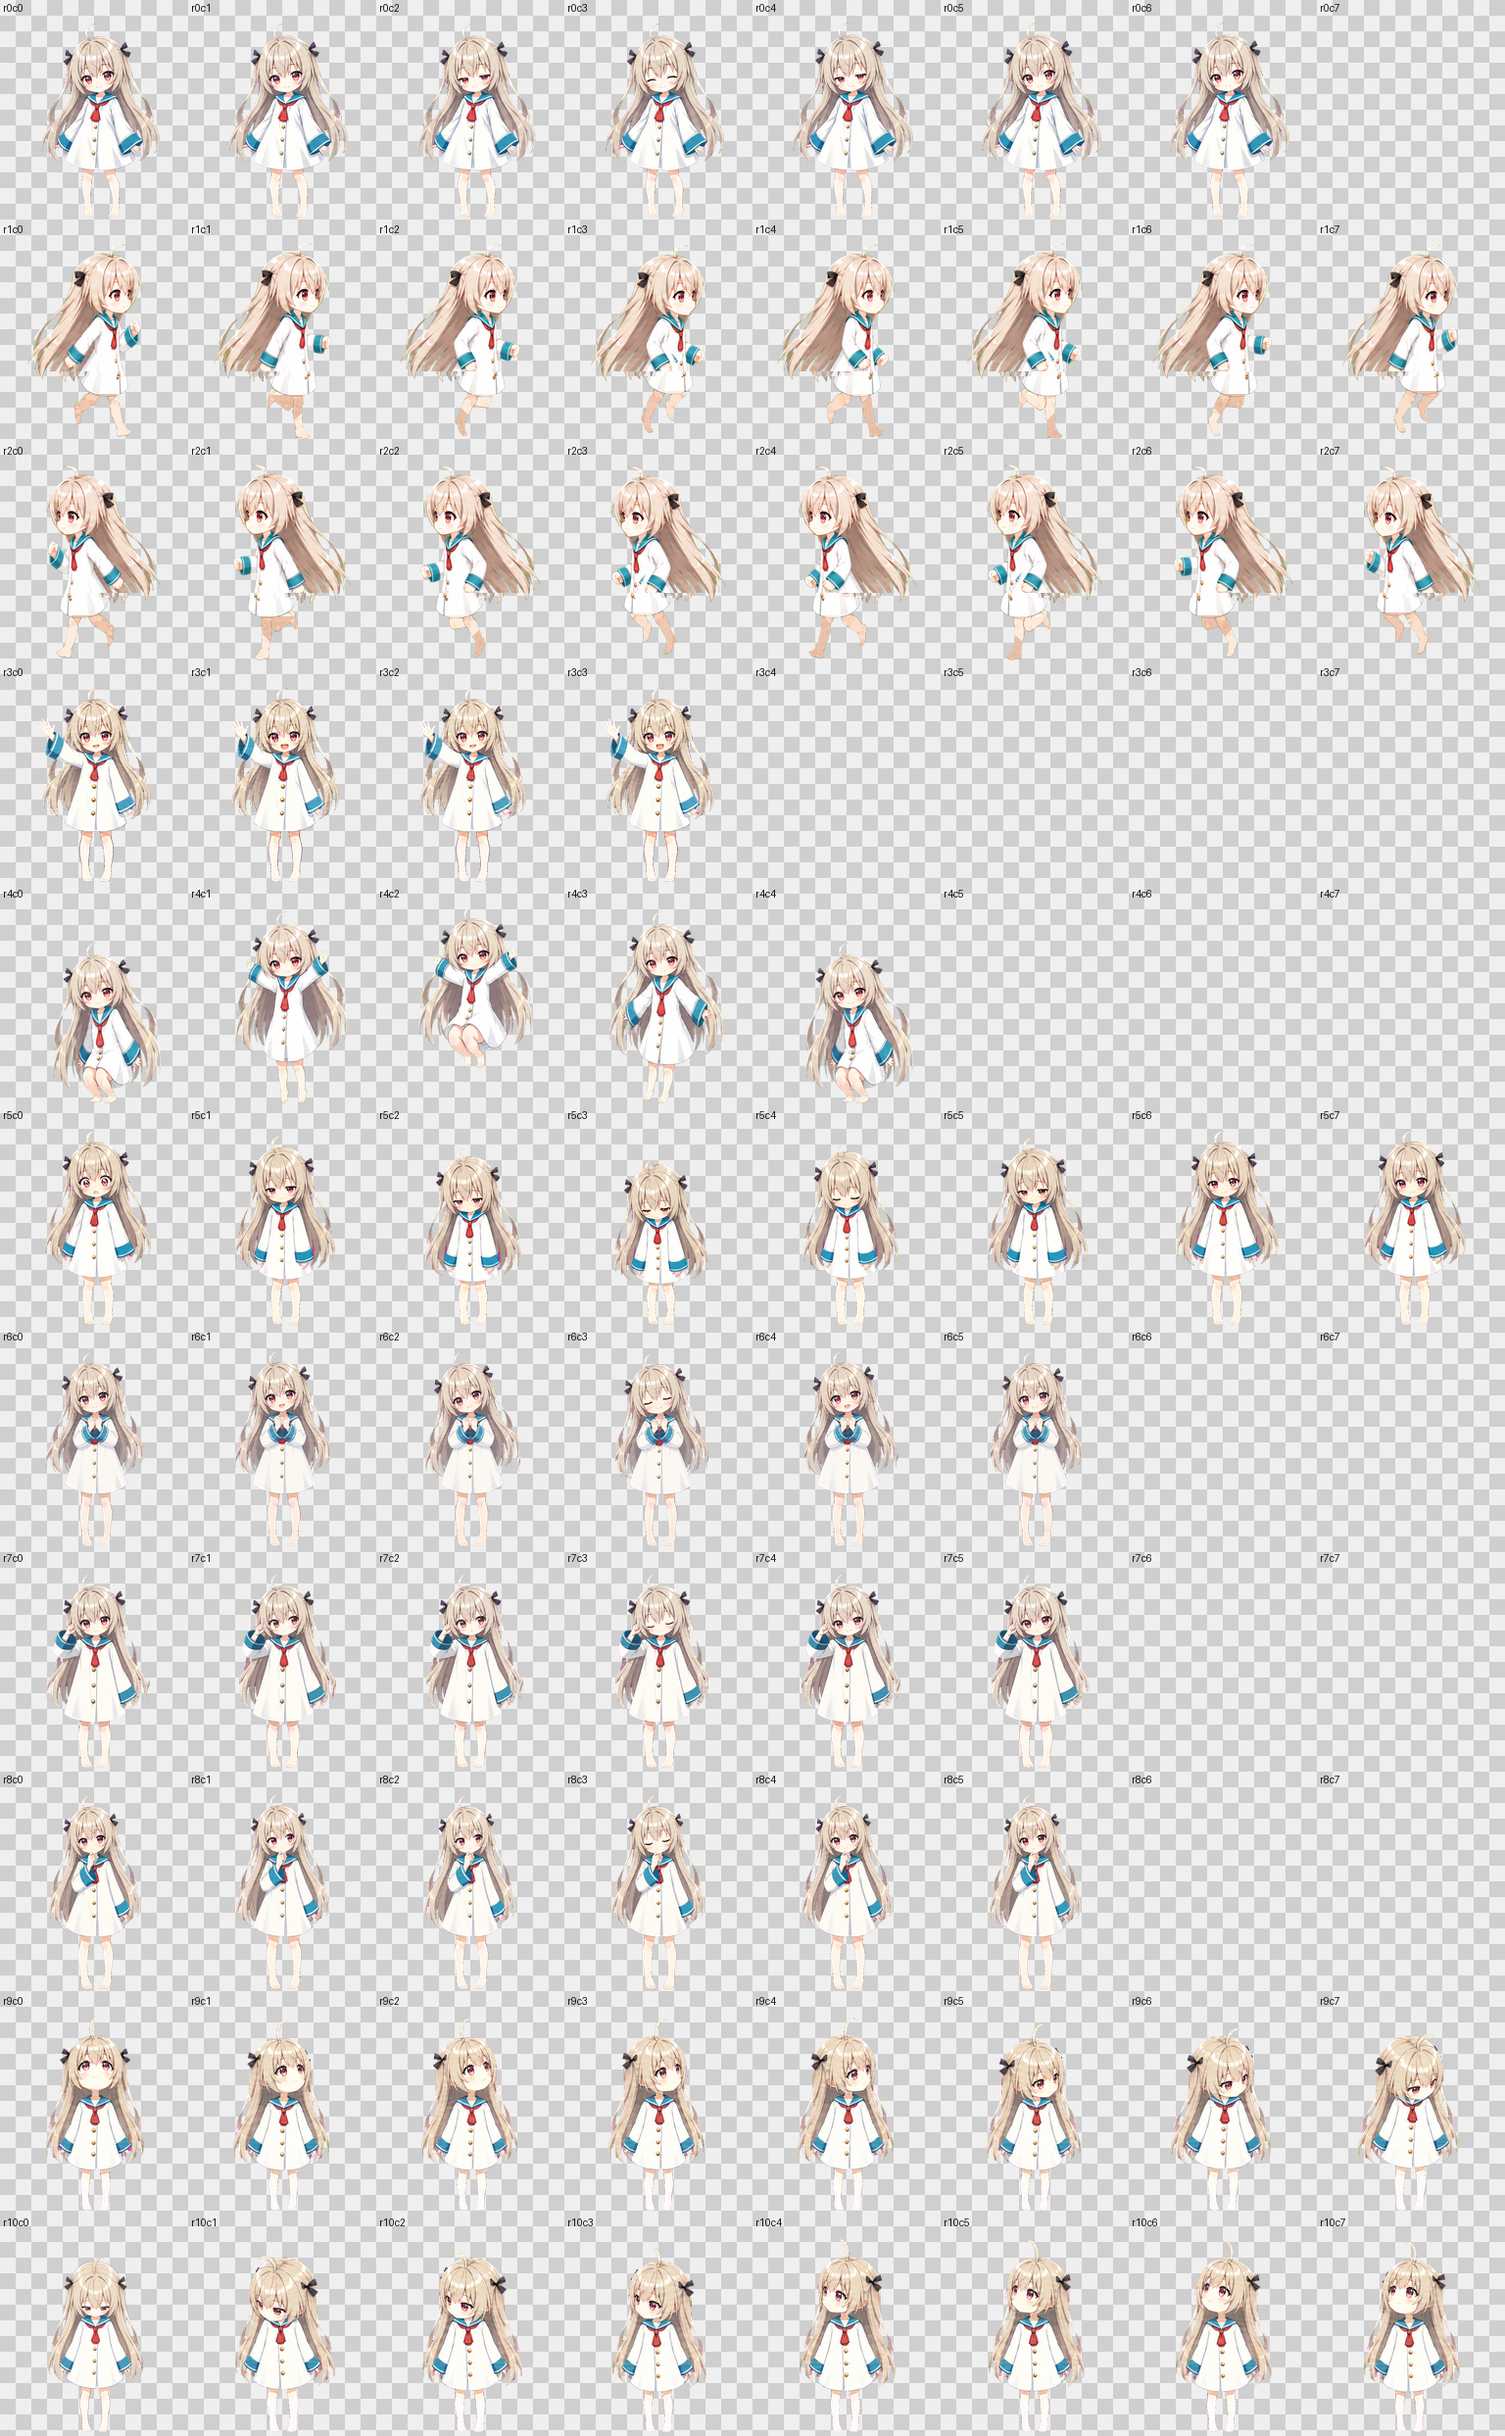
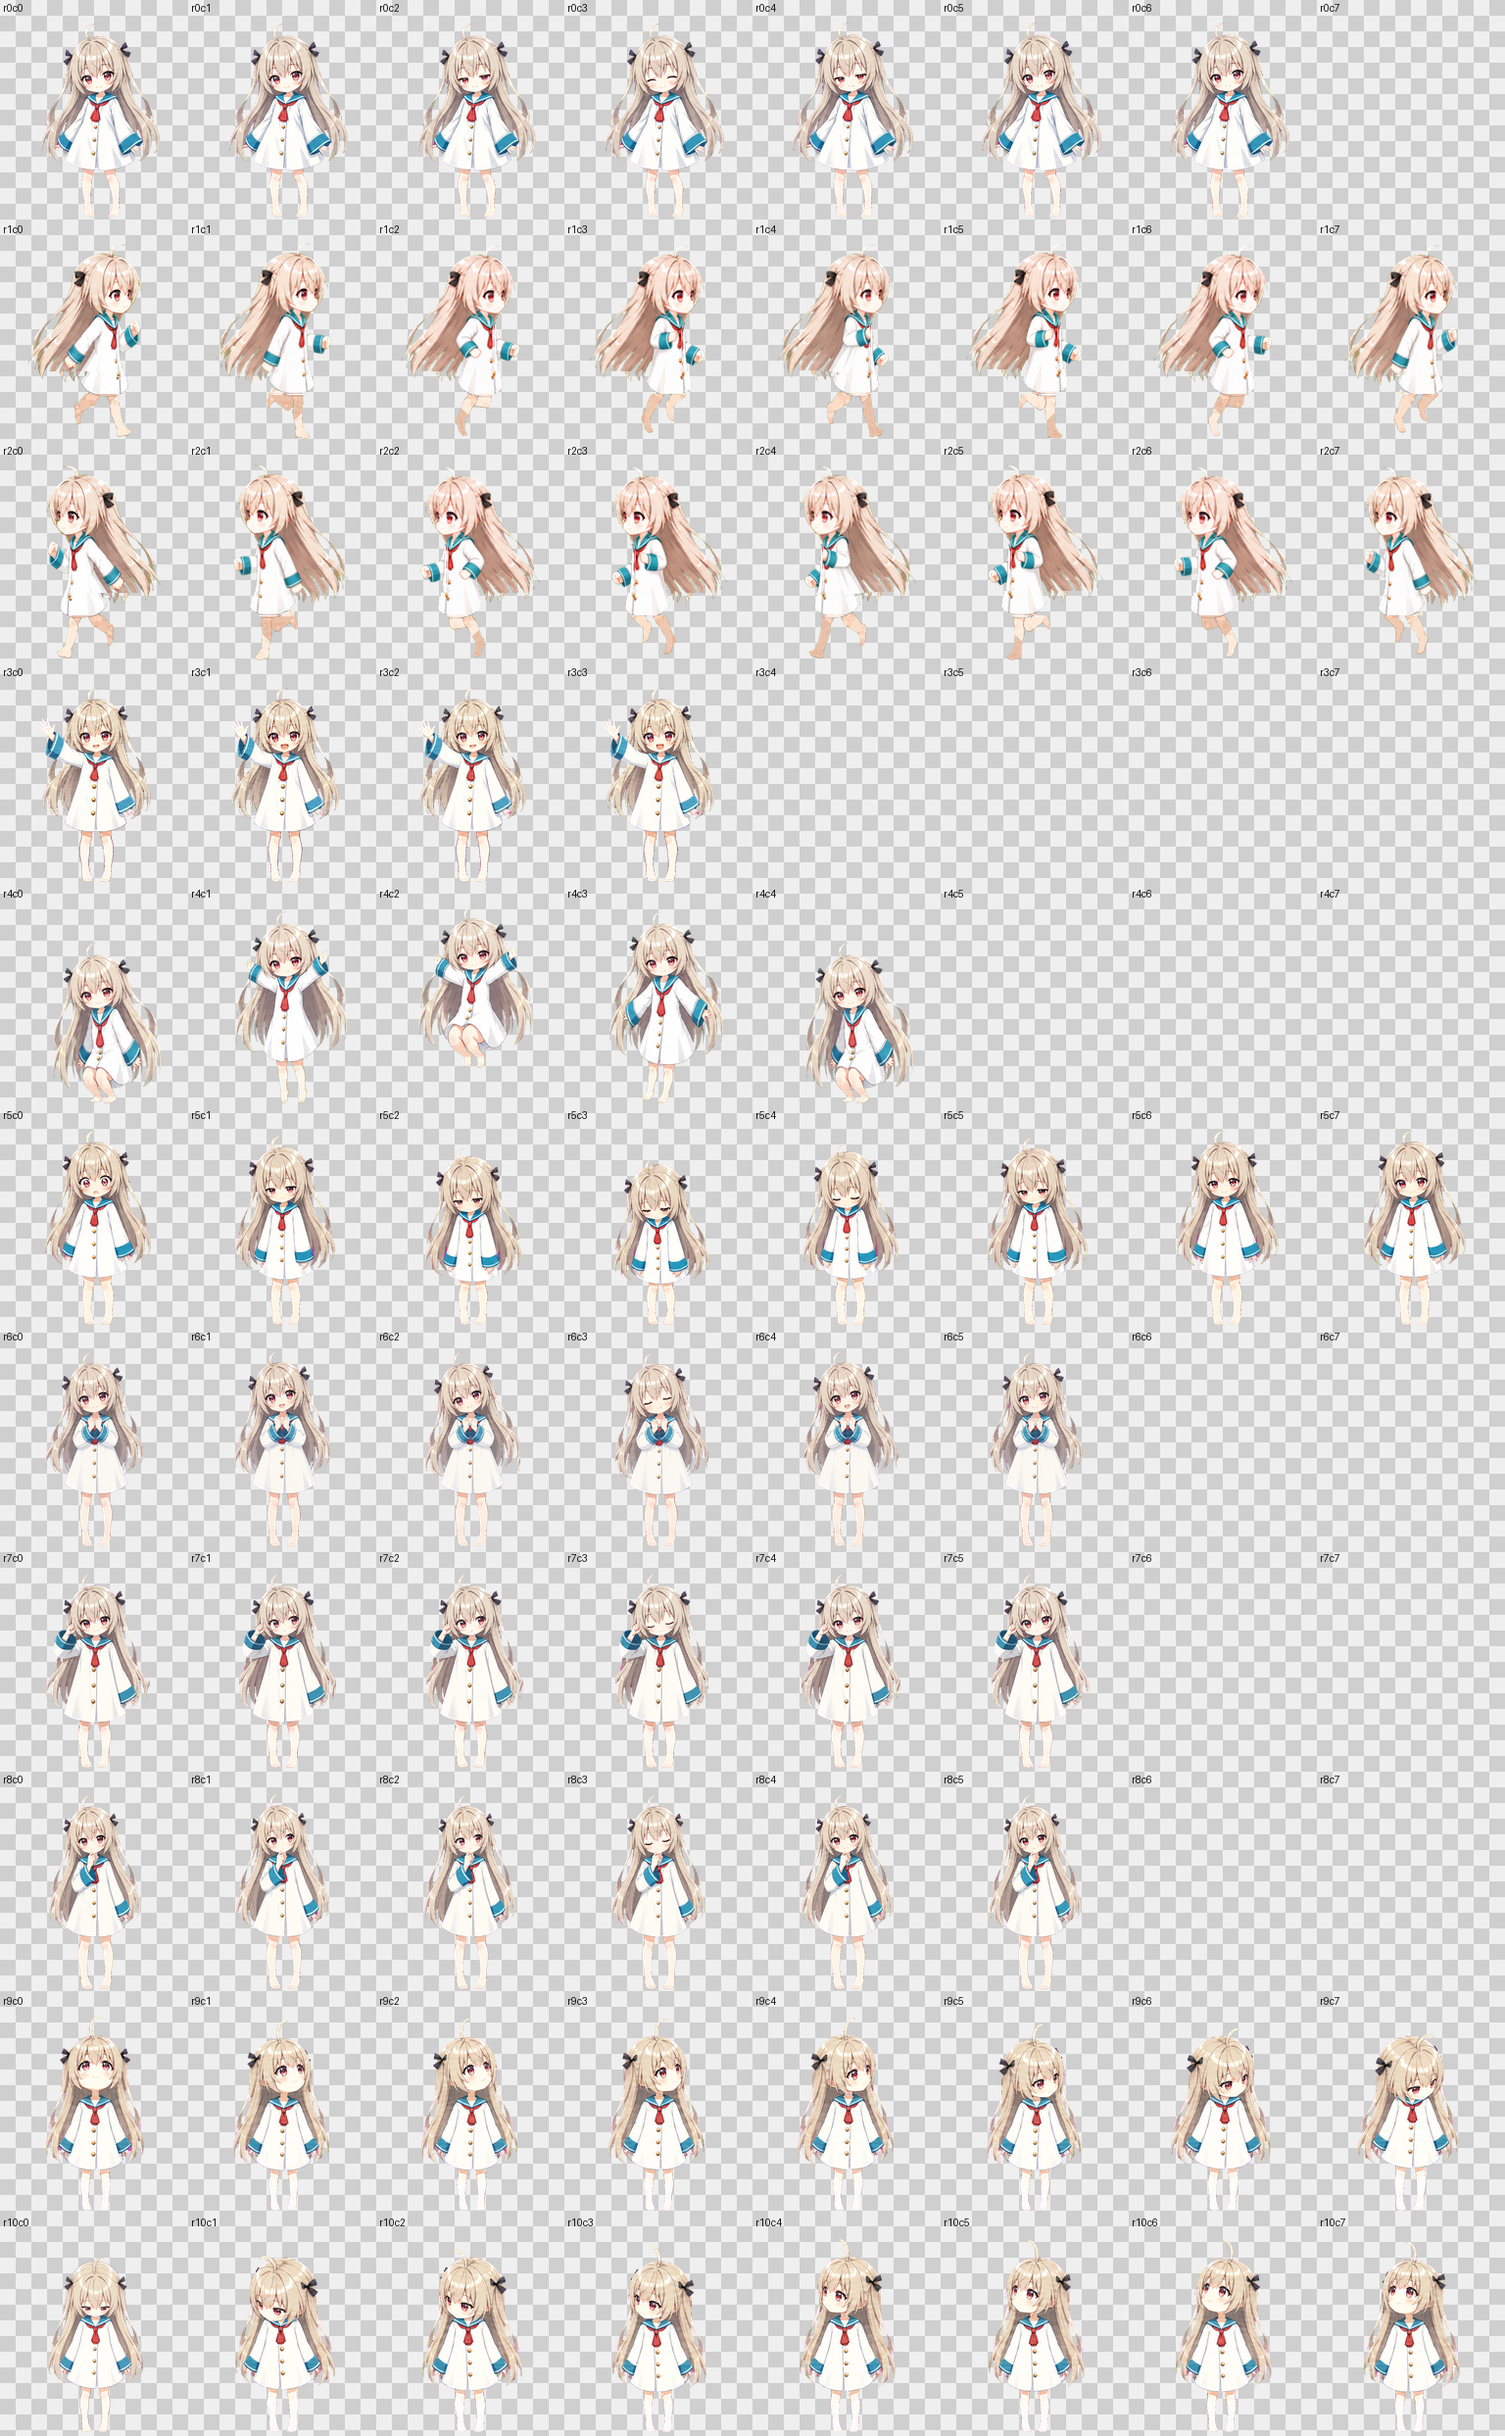
Balance ATRI running arm swing

diff --git a/qa/validate_pet_atlas.py b/qa/validate_pet_atlas.py
@@ -371,29 +371,44 @@ def component_centroid(mask: Image.Image, component: tuple[int, tuple[int, int, 
 def run_cuff_centers(sprite: Image.Image) -> tuple[tuple[float, float], tuple[float, float]]:
     """Track the two teal cuffs, which remain visible at native pet size."""
 
-    centers = []
-    # One cuff stays on each side of the torso. Separate ROIs prevent the teal
-    # sailor collar from being mistaken for an arm component.
-    for x0, x1 in ((68, 113), (122, 151)):
-        mask = Image.new("L", (CELL_WIDTH, CELL_HEIGHT), 0)
-        pixels = mask.load()
-        for y in range(75, 150):
-            for x in range(x0, x1):
-                red, green, blue, alpha = sprite.getpixel((x, y))
-                if (
-                    alpha > 40
-                    and red < 185
-                    and green > 55
-                    and blue > 65
-                    and green - red > 10
-                    and blue - red > 14
-                ):
-                    pixels[x, y] = 255
-        components = [item for item in connected_components(mask) if item[0] >= 20]
-        if not components:
-            raise ValueError("missing teal cuff component")
-        centers.append(component_centroid(mask, components[0]))
-    return centers[0], centers[1]
+    mask = Image.new("L", (CELL_WIDTH, CELL_HEIGHT), 0)
+    pixels = mask.load()
+    for y in range(75, 150):
+        for x in range(55, 165):
+            red, green, blue, alpha = sprite.getpixel((x, y))
+            if (
+                alpha > 40
+                and red < 185
+                and green > 55
+                and blue > 65
+                and green - red > 10
+                and blue - red > 14
+            ):
+                pixels[x, y] = 255
+
+    centers: list[tuple[float, float]] = []
+    for size, bbox in connected_components(mask):
+        if size < 50 or bbox[3] < 96:
+            continue
+        x0, y0, x1, y1 = bbox
+        points = [
+            (x, y)
+            for y in range(max(y0, 90 if y0 < 86 else y0), y1)
+            for x in range(x0, x1)
+            if mask.getpixel((x, y)) > 8
+        ]
+        if len(points) < 20:
+            continue
+        centers.append(
+            (
+                sum(x for x, _ in points) / len(points),
+                sum(y for _, y in points) / len(points),
+            )
+        )
+    if len(centers) != 2:
+        raise ValueError(f"expected two teal cuff components, found {len(centers)}")
+    rear, front = sorted(centers)
+    return rear, front
 
 
 def displayed_distance(first: tuple[float, float], second: tuple[float, float]) -> float:
@@ -414,7 +429,7 @@ def validate_cuff_track(label: str, track: list[tuple[float, float]]) -> list[st
         errors.append(f"running-right: {label} arm is visually frozen (cuff range={full_range:.2f}px source)")
     if opposite < 10:
         errors.append(f"running-right: {label} arm does not reach an opposite half-cycle pose ({opposite:.2f}px source)")
-    if max(transitions) > 6:
+    if max(transitions) > 12:
         errors.append(f"running-right: {label} arm jumps {max(transitions):.2f}px at native display size")
     if min(transitions) < 1:
         errors.append(f"running-right: {label} arm stalls between adjacent frames ({min(transitions):.2f}px native)")
@@ -436,7 +451,43 @@ def validate_run_arms(right: list[Image.Image]) -> list[str]:
     alignment = sum(first * second for first, second in zip(rear_vector, front_vector)) / denominator if denominator else 1.0
     if alignment > 0.5:
         errors.append(f"running-right: arms move together instead of contralaterally (cosine={alignment:.2f})")
-    return errors + validate_run_arm_trajectory(right)
+    return errors + validate_run_arm_trajectory(right) + validate_run_arm_balance(right)
+
+
+def validate_run_arm_balance(right: list[Image.Image]) -> list[str]:
+    """Require both arms to exchange equally high and low endpoint poses."""
+
+    try:
+        pairs = [run_cuff_centers(sprite) for sprite in right]
+    except ValueError as error:
+        return [f"running-right: {error}"]
+    rear, front = [[pair[index] for pair in pairs] for index in range(2)]
+    body_y = [eye_center(sprite)[1] for sprite in right]
+    rear_relative_y = [point[1] - anchor for point, anchor in zip(rear, body_y)]
+    front_relative_y = [point[1] - anchor for point, anchor in zip(front, body_y)]
+    rear_vertical = max(rear_relative_y) - min(rear_relative_y)
+    front_vertical = max(front_relative_y) - min(front_relative_y)
+    smaller = min(rear_vertical, front_vertical)
+    larger = max(rear_vertical, front_vertical)
+    start_separation = rear[0][1] - front[0][1]
+    opposite_separation = front[4][1] - rear[4][1]
+    errors: list[str] = []
+    if larger <= 1e-6 or smaller / larger < 0.75:
+        errors.append(
+            "running-right: near/far arm vertical swing is unbalanced "
+            f"(rear={rear_vertical:.2f}px, front={front_vertical:.2f}px source)"
+        )
+    if min(start_separation, opposite_separation) < 10:
+        errors.append(
+            "running-right: arms do not exchange equally high endpoint poses "
+            f"(start={start_separation:.2f}px, opposite={opposite_separation:.2f}px source)"
+        )
+    elif max(start_separation, opposite_separation) / min(start_separation, opposite_separation) > 1.35:
+        errors.append(
+            "running-right: high/low endpoint separation is asymmetric "
+            f"(start={start_separation:.2f}px, opposite={opposite_separation:.2f}px source)"
+        )
+    return errors
 
 
 def validate_run_arm_trajectory(right: list[Image.Image]) -> list[str]:
@@ -465,7 +516,10 @@ def validate_run_arm_trajectory(right: list[Image.Image]) -> list[str]:
         forward = [projections[index + 1] - projections[index] for index in range(4)]
         returning = [projections[index] - projections[index + 1] for index in range(4, 7)]
         returning.append(projections[7] - projections[0])
-        if min(forward + returning) <= 0.04:
+        # A compact run may ease for one frame at the swing endpoint. Every
+        # non-endpoint transition must still advance, and endpoint easing may
+        # not reverse by more than five percent of the half-cycle.
+        if min(forward[:3] + returning[1:]) <= 0.04 or min(forward[3], returning[0]) < -0.05:
             errors.append(
                 f"running-right: {label} arm reverses or holds within a half-cycle "
                 f"(projection={[round(value, 3) for value in projections]})"

diff --git a/README.md b/README.md
@@ -2,9 +2,9 @@
 
 A Codex-compatible v2 animated desktop pet inspired by ATRI from *ATRI -My Dear Moments-*.
 The current atlas uses one consistent chibi model and warm ash-silver palette across all actions.
-The run uses monotonic contralateral arm swings and a compact contact/load/pass/flight cycle; the left
-cycle is an exact whole-frame mirror, so body direction, anatomy, and warm near/far-leg shading turn
-together.
+The run uses monotonic contralateral arm swings with a balanced high/low endpoint exchange and a
+compact contact/load/pass/flight cycle; the left cycle is an exact whole-frame mirror, so body
+direction, anatomy, and warm near/far-leg shading turn together.
 
 ![ATRI animation contact sheet](qa/contact-sheet-extended.png)
 
@@ -61,20 +61,21 @@ Deterministic validation confirms:
 - a canonical cross-action head/body scale with a dedicated proportion regression gate
 - no large purple, fuchsia, or chroma-key component in any used frame
 - a compact two-step jog: contact/load/pass/short-flight, then the same lower-body geometry with the
-  anatomical near/far legs exchanged while both arms move contralaterally and monotonically through
-  each half-cycle
+  anatomical near/far legs exchanged while both arms move contralaterally through each half-cycle and
+  exchange equally high endpoint poses
 - exact whole-frame left/right running mirrors with preserved temporal order and leg shading
 - the actual renderer contract: columns `0→7` with no skipping, `120 ms` for frames 0–6,
   a `220 ms` terminal hold, and a `1060 ms` cycle
 - neutral-action eye-depth range of `9.307 px`, per-run-frame eye-depth range of `0.500 px`, and
   idle/run contact heights of `198/197 px`
-- stable run head/body anchors with `1.000/2.000 px` horizontal/vertical source-cell ranges
-- rear/front cuff travel and opposite-pose travel of `28.951/18.895 px`
-- monotonic rear-arm projection `0→0.201→0.512→0.716→1` and front-arm projection
-  `0→0.340→0.703→0.943→1`, followed by monotonic return
-- bounded adjacent cuff movement of `1.570–5.416 px` at the actual display size, with a
-  contralateral half-cycle cosine of `-0.227`
-- adjacent run silhouette IoU of `0.832–0.884` and a maximum warm-leg span of `57 px`
+- stable run head/body anchors with `2.000/2.500 px` horizontal/vertical source-cell ranges
+- body-relative rear/front vertical cuff travel of `22.609/18.147 px`, with matched opposite endpoint
+  height separations of `17.423/17.942 px`
+- monotonic rear-arm projection `0→0.134→0.451→0.737→1` and front-arm projection
+  `0→0.321→0.709→0.945→1`, followed by monotonic return
+- bounded adjacent cuff movement of `1.545–8.729 px` at the actual display size, with a
+  contralateral half-cycle cosine of `-0.731`
+- adjacent run silhouette IoU of `0.817–0.895` and a maximum warm-leg span of `57 px`
 - zero cool purple/blue pixels in every running-leg region
 - jump eye spacing of `18.040–18.860 px` against idle `18.491 px`, with upright jump button spacing
   of `13.000/11.821 px` against idle `13.443 px`

diff --git a/qa/atri-character-brief.md b/qa/atri-character-brief.md
@@ -47,9 +47,9 @@ Official sources:
 - Idle: calm breathing, soft hair sway, tiny blink, and a restrained proud smile.
 - Running right: a cute upright eight-frame two-step jog, never a 100 m sprint. Frames 0–3 form one
   compact contact/load/pass/short-flight half-step; frames 4–7 reuse the same readable lower-body
-  geometry with the anatomical near/far legs exchanged. The torso has a subtle phase bob, arms and
-  hair advance through all eight frames, feet remain connected, and far-leg depth uses warm peach—not
-  purple, blue, or gray.
+  geometry with the anatomical near/far legs exchanged. The torso has a subtle phase bob, both arms
+  exchange equally high and low endpoint poses through connected bent sleeves, hair advances through
+  all eight frames, feet remain connected, and far-leg depth uses warm peach—not purple, blue, or gray.
 - Running left: framewise whole-body mirror of the approved right-running cycle, preserving temporal
   order.
 - Waving: bright, eager greeting using only the arm and hand pose; no motion arcs.
@@ -74,9 +74,9 @@ Official sources:
 - All frames preserve one character identity and remain legible at in-app display size.
 - Neutral actions share one eye/head scale and planted model height; running may not use an oversized
   head, shortened torso, or independently drifting chibi proportion.
-- Directional running is a visibly alternating two-step loop with monotonic contralateral arm
-  half-cycles and no repeated-foot cadence, reversed limbs, detached anatomy, clipping, seams, or edge
-  tearing.
+- Directional running is a visibly alternating two-step loop with balanced contralateral arm
+  half-cycles, matched high/low endpoint separation, and no repeated-foot cadence, reversed limbs,
+  detached anatomy, clipping, seams, or edge tearing.
 - All nine standard states are immediately distinguishable and character-specific.
 - All 16 look directions pass cardinal semantics, ordered-loop continuity, scale, baseline, edge, and
   transparency review.
